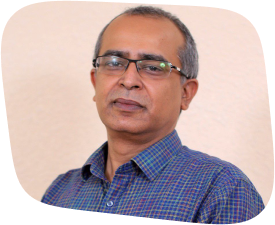
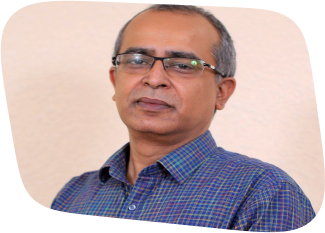
fac pic

diff --git a/sdcusictfaculty.html b/sdcusictfaculty.html
@@ -270,7 +270,7 @@
     <div class="con-fac3">
       <!-- <img src="rec3.png" class="back3"> -->
       <div class="con-fac-inner">
-      <img src="fac3.png" class="pic3" id="fac">
+      <img src="pic3.png" class="pic3" id="fac">
       <p class="text-fac">Dr.Priyanka bhutani</p>
       <p class="fac-about3" id="fac3">Lorem, ipsum dolor sit amet consectetur adipisicing elit. Nisi labore fuga modi numquam corporis culpa eum, accusamus quaerat qui fugiat.</p>
       </div>
